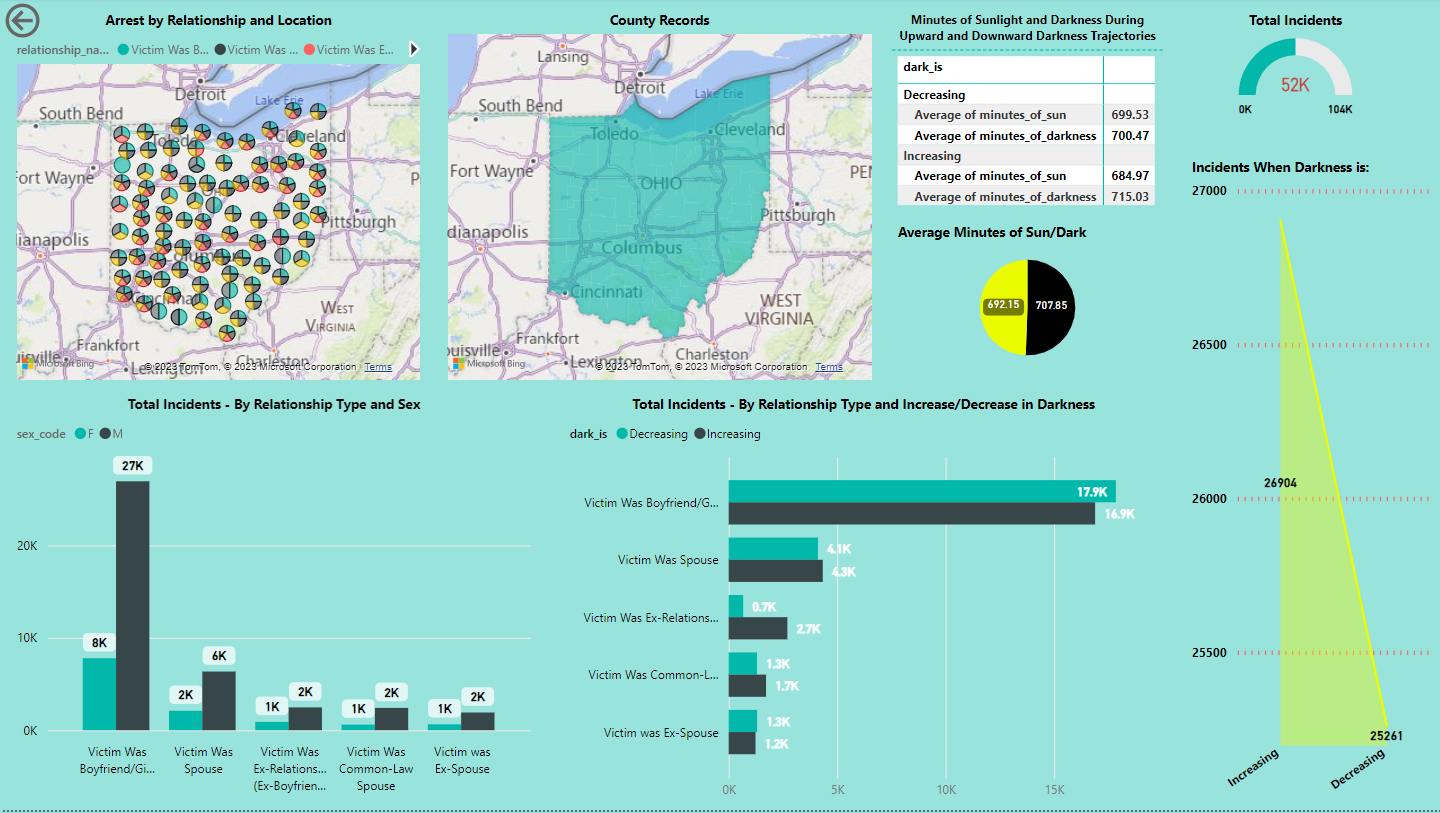
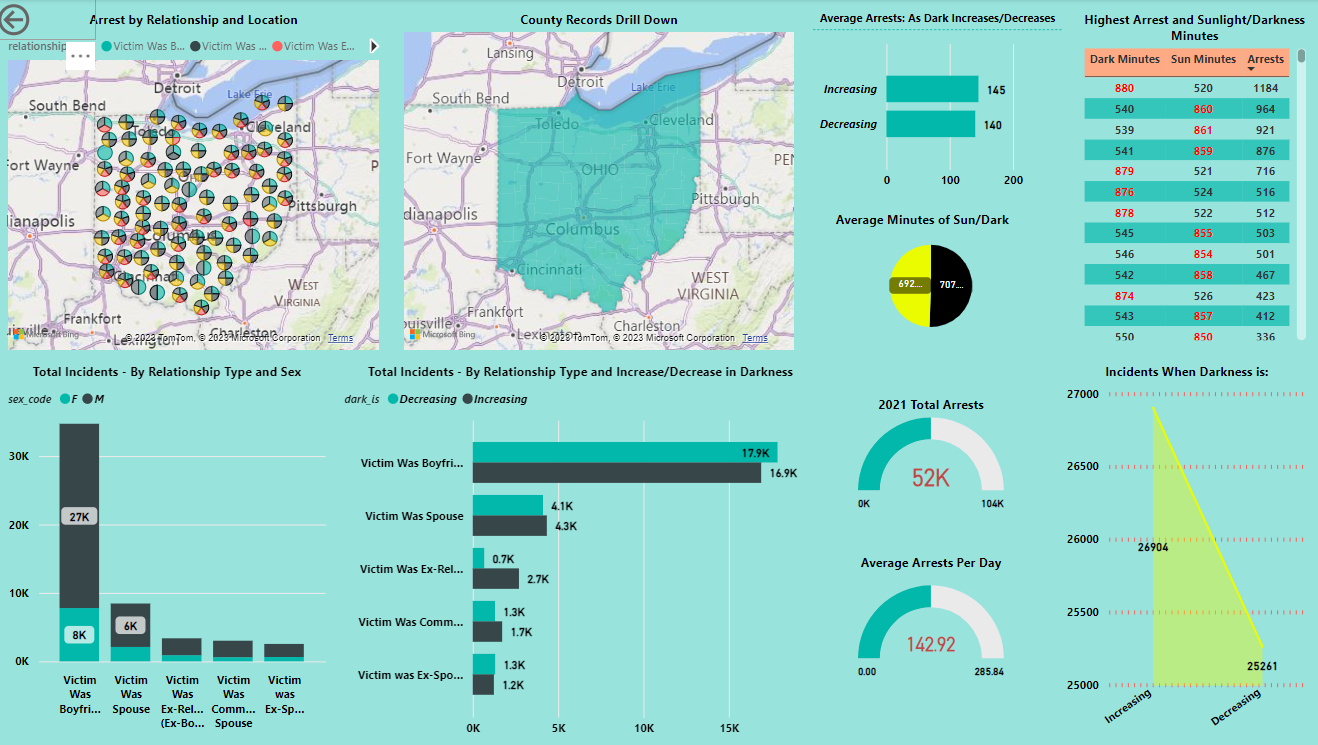
Update

diff --git a/CAPTSTONE_README.md b/CAPTSTONE_README.md
@@ -53,11 +53,15 @@ PostrgreSQL to PowerBI and R Studio for testing and analysis.
 
 Step II: 
 Created a Dashboard in PowerBI, with visuals regarding increasing darkness and arrest records. 
-This allowed a quick understanding the data for the anlaysis in R.   
+This allowed a quick understanding the data for the anlaysis in R. You can see the average
+arrests per day was 142.92. The average while the darkness was increasing averaged 145, while 
+140 average arrests occured while the sunlight was increasing. You can also see the largest 
+amount of arrests (1184) occured when the darkness exceeded the sunlight.
+
 
 ![My Image](Documentation/BI_Dashboard.PNG)
 
-Querried the data from R Studio, and formatted/cleaned for testing analysis. 
+
 
 Step III: 
 Created additional visualizations in R Studio to view the variable relationships.
